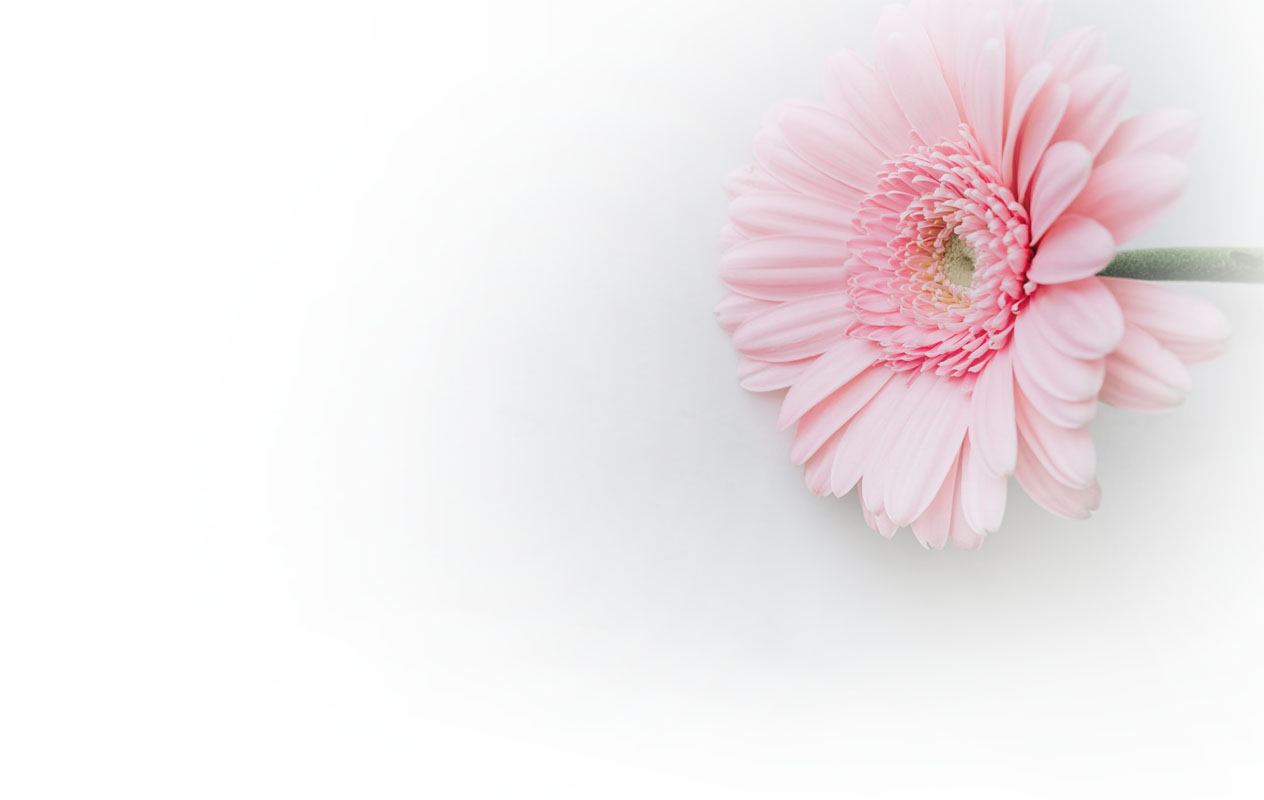
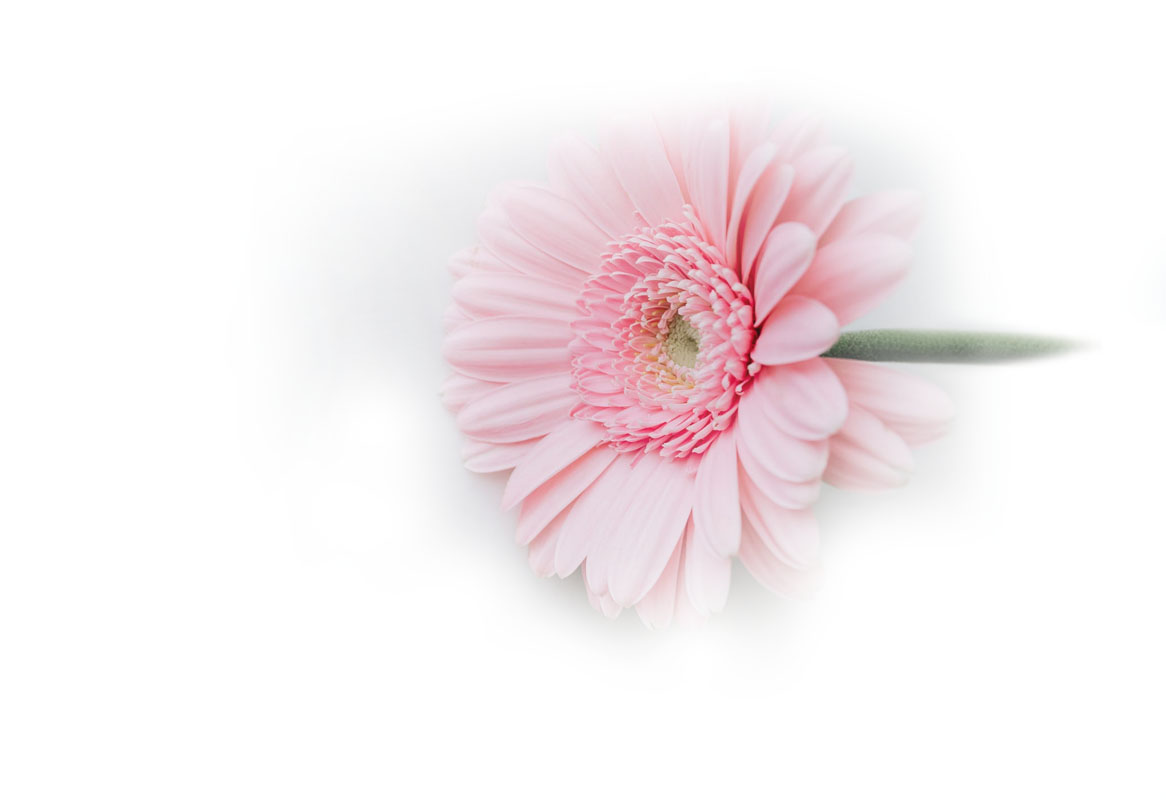
commit

Changed region(s): [[0.3705, 0.0, 1.0, 0.7812]]

diff --git a/index.html b/index.html
@@ -9,11 +9,9 @@
 </head>
 <body>
     <header class="page-header">
-        <div class="container">
           <a class="header-phone" href="tel:+79381215005">+7 (938) 121-50-05</a>
           <p class="header-location">Новошахтинск</p>
           <p class="header-location">Гуково</p>
-        </div>
     </header>
     <h1>Цветы 24 часа</h1>
     <section>
@@ -26,7 +24,7 @@
             <li>широкий ассортимент</li>
         </ul>
     </section>
-    <!-- сделать в будущем clickable картинки, не забыть иконки в стилях под конаткты, фоновые картинк прозрачные и не очень с цветами и без, добавить навигацию по разделам в хедер и футер мб, c
+     <!-- сделать в будущем clickable картинки, не забыть иконки в стилях под конаткты, фоновые картинк прозрачные и не очень с цветами и без, добавить навигацию по разделам в хедер и футер мб, c
     сделать кликабельными все контакты то есть a и для телефона как в хедереб убрать стандартные точки в списке, интересно, вообще нужен список в этом случае? в адресах выравниве через флекс как портфолио
     в хедедере сделать мб локацию с кионками и просто названия городов? имп пре для адресов -->
     <section class="gallery"> 
@@ -38,7 +36,7 @@
             <img src="files/img5.jpg" width="300px" alt="Букет из лиллий и зелени">
          </div>
     </section>
-    <section>
+       <section>
         <h3>Контакты:</h3>
             <a href="tel:+79381215005">Тел.: +7 (938) 121-50-05</a><br>
             <a href="https://wa.me/79381215005">WhatsApp</a><br>
@@ -48,7 +46,7 @@
             <a href="https://ok.ru/profile/574144659608">Одноклассники</a>
     <section>
         <h4>Наши адреса:</h4>
-        <div class="container">
+        <div class="container-address">
              <figure>
                 <img src="/files/map_novosh_gorodskaya.jpg" alt="Расположение магазина на карте">
                 <figcaption>г. Новошахтинск, Городская ул., 41А</figcaption>

diff --git a/style.css b/style.css
@@ -1,15 +1,43 @@
 body {
     position: relative;
-    margin: 0;
     min-width: 1408px;
     font-family: "Montserrat", "Helvetica", "Arial", sans-serif;
-    font-size: 16px;
-    line-height: 32px;
+    font-size: 18px;
+    line-height: 30px;
     color: #5a274b;
     background-color: #ffffff;
     background-image: url("img/flower-bg.jpg");
     background-repeat: no-repeat;
     background-position-y: top;
     background-position-x: calc(50vw + 16px)
-  }
+}
+
+.page-header {
+    margin: 0 0 100px;
+    padding: 32px 0;
+}
   
+header {
+    text-align: left;
+    font-size: 16px;
+    line-height: 20px;
+}
+
+h1 {
+    font-size: 100px;
+    text-transform: uppercase;
+    color: #cb4965c4;
+}
+
+.container {
+    text-align: center;
+}
+
+.container .gallery, .container-address {
+    display: flex;
+    justify-content: space-between;
+}
+
+div .container {
+    display: flex;
+}
